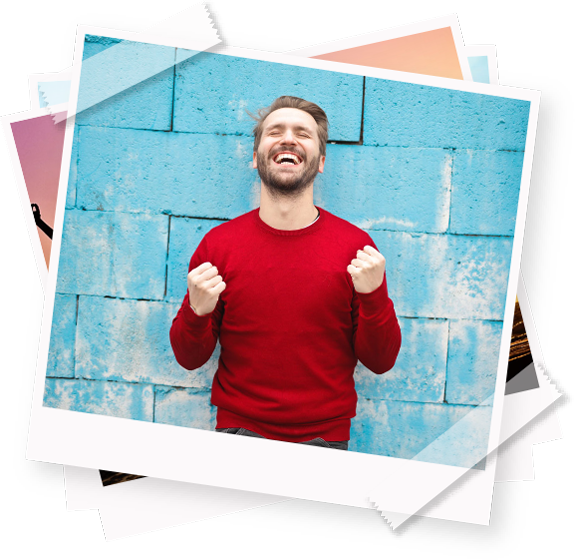
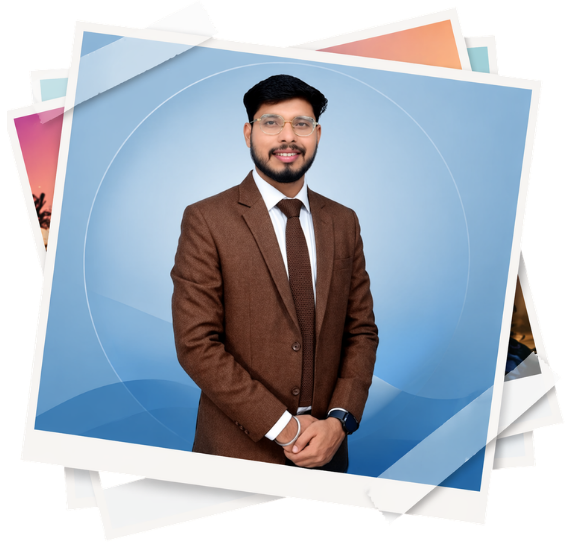
done

diff --git a/about.html b/about.html
@@ -510,16 +510,38 @@
             </div>
           </div>
 
-          <div class="col-lg-3 col-md-6">
+           <div class="col-lg-3 col-md-6">
             <div class="single-fun-fact">
               <div class="icon">
-            <i class="fa-solid fa-medal"></i>
+                <i class="fa-solid fa-user"></i>
               </div>
               <h3>
-                <span class="odometer odometer-auto-theme" data-count="23"><div class="odometer-inside"><span class="odometer-digit"><span class="odometer-digit-spacer">8</span><span class="odometer-digit-inner"><span class="odometer-ribbon"><span class="odometer-ribbon-inner"><span class="odometer-value">2</span></span></span></span></span><span class="odometer-digit"><span class="odometer-digit-spacer">8</span><span class="odometer-digit-inner"><span class="odometer-ribbon"><span class="odometer-ribbon-inner"><span class="odometer-value">3</span></span></span></span></span></div></span>
-                <span class="sign-icon"><b>+</b> Winning</span>
+                <span class="odometer odometer-auto-theme" data-count="1000"
+                  ><div class="odometer-inside">
+                    <span class="odometer-digit"
+                      ><span class="odometer-digit-spacer">8</span
+                      ><span class="odometer-digit-inner"
+                        ><span class="odometer-ribbon"
+                          ><span class="odometer-ribbon-inner"
+                            ><span class="odometer-value">2</span></span
+                          ></span
+                        ></span
+                      ></span
+                    ><span class="odometer-digit"
+                      ><span class="odometer-digit-spacer">8</span
+                      ><span class="odometer-digit-inner"
+                        ><span class="odometer-ribbon"
+                          ><span class="odometer-ribbon-inner"
+                            ><span class="odometer-value">3</span></span
+                          ></span
+                        ></span
+                      ></span
+                    >
+                  </div></span
+                >
+                <span class="sign-icon"><b>+</b> Admissions</span>
               </h3>
-              <p>Awards</p>
+              <p>Students</p>
             </div>
           </div>
         </div>
@@ -533,7 +555,7 @@
 
     <!-- SECTION TITLE -->
     <div class="section-title">
-      <h2>Why <span>Choose Us</span></h2>
+      <h2>Why Choose Us</h2>
       <p>
         At Sanjivani Career Counselling Pvt. Ltd., we are committed to guiding 
         students towards the right career path with expert advice, transparency, 

diff --git a/index.html b/index.html
@@ -338,7 +338,7 @@
             <div class="row align-items-center">
               <div class="col-lg-7">
                 <div class="main-slides-content">
-                  <h1>Your Gateway to <span> Global Medical</span> Success</h1>
+                  <h1>Your Gateway to  Global Medical Success</h1>
                   <p>
                     Sanjivani Career Counselling guides students with 11 years
                     experience for admissions in medical engineering and
@@ -563,10 +563,10 @@
           <div class="col-lg-3 col-md-6">
             <div class="single-fun-fact">
               <div class="icon">
-                <i class="fa-solid fa-medal"></i>
+                <i class="fa-solid fa-user"></i>
               </div>
               <h3>
-                <span class="odometer odometer-auto-theme" data-count="23"
+                <span class="odometer odometer-auto-theme" data-count="1000"
                   ><div class="odometer-inside">
                     <span class="odometer-digit"
                       ><span class="odometer-digit-spacer">8</span
@@ -589,9 +589,9 @@
                     >
                   </div></span
                 >
-                <span class="sign-icon"><b>+</b> Winning</span>
+                <span class="sign-icon"><b>+</b> Admissions</span>
               </h3>
-              <p>Awards</p>
+              <p>Students</p>
             </div>
           </div>
         </div>
@@ -622,7 +622,7 @@
 
             <!-- Founder Info Card -->
             <div class="sc-founder-card">
-              <img src="/assets/image/fouder.jpeg" alt="Founder" />
+              <img src="/assets/image/founder-2.jpeg" alt="Founder" />
               <div>
                 <h5>Shersingh Tembhurnekar</h5>
                 <span>Founder, Sanjivani Career Counselling</span>
@@ -633,7 +633,7 @@
           <!-- Right Visual Block -->
           <div class="sc-founder-visual">
             <div class="sc-image-box">
-              <img src="/assets/image/fouder.jpeg" alt="" />
+              <img src="/assets/image/founder-2.jpeg" alt="" />
             </div>
 
             <!-- Floating Stats -->

diff --git a/assets/css/style.css b/assets/css/style.css
@@ -96,7 +96,7 @@ button {
 p {
   margin-bottom: 15px;
   line-height: 1.8;
-  color: #6b6b84;
+  color: #121212;
   font-weight: 500;
   font-family: "Montserrat", sans-serif;
   font-size: 16px;
@@ -1584,7 +1584,7 @@ About Area CSS
   top: 50%;
   transform: translateY(-50%);
   left: 35px;
-  font-size: 25px;
+  font-size: 32px;
   font-style: italic;
   margin-bottom: 0;
 }
@@ -2938,12 +2938,12 @@ Fun Facts Area CSS
   border-radius: 15px;
 }
 .single-fun-fact h3 {
-  font-size: 25px;
+  font-size: 18px;
   margin-bottom: 5px;
   line-height: 1;
 }
 .single-fun-fact h3 .sign-icon {
-  font-size: 25px;
+  font-size: 18px;
   font-weight: 500;
 }
 .single-fun-fact p {
